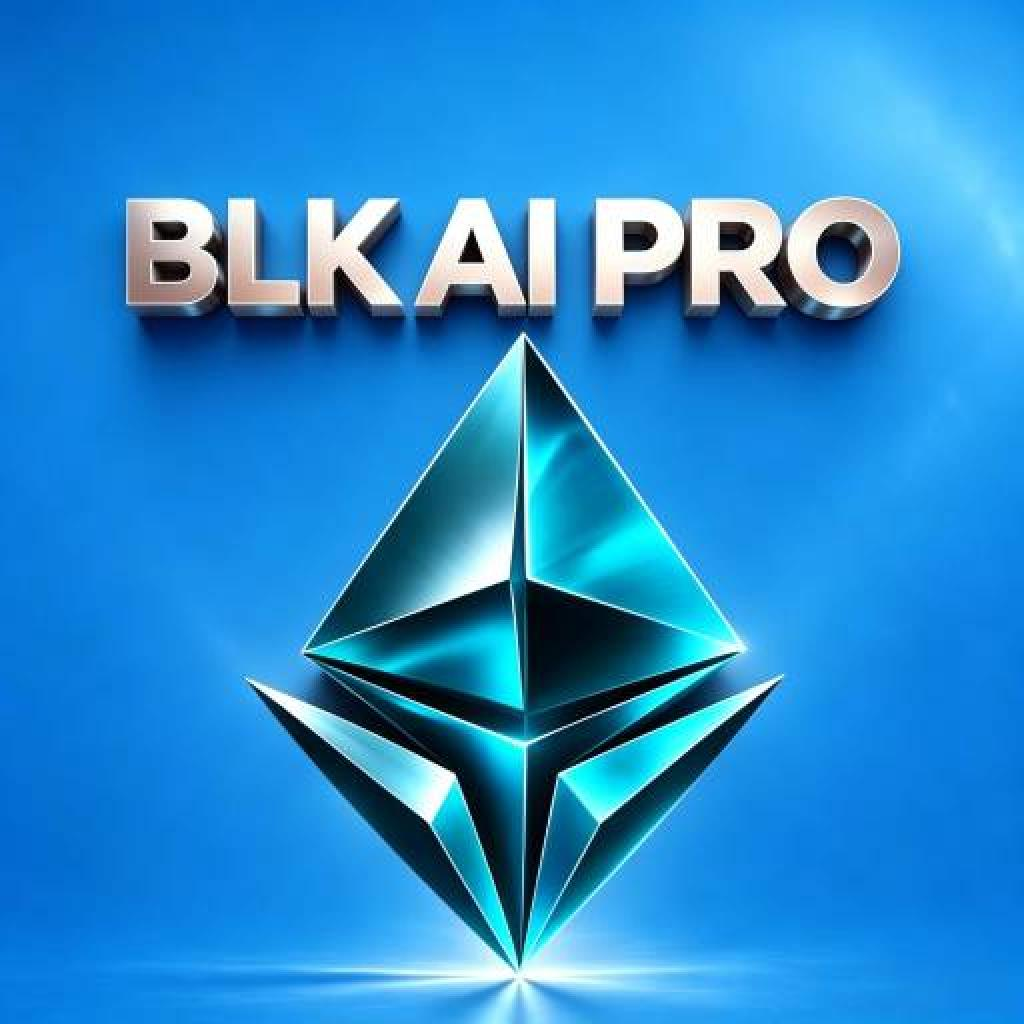
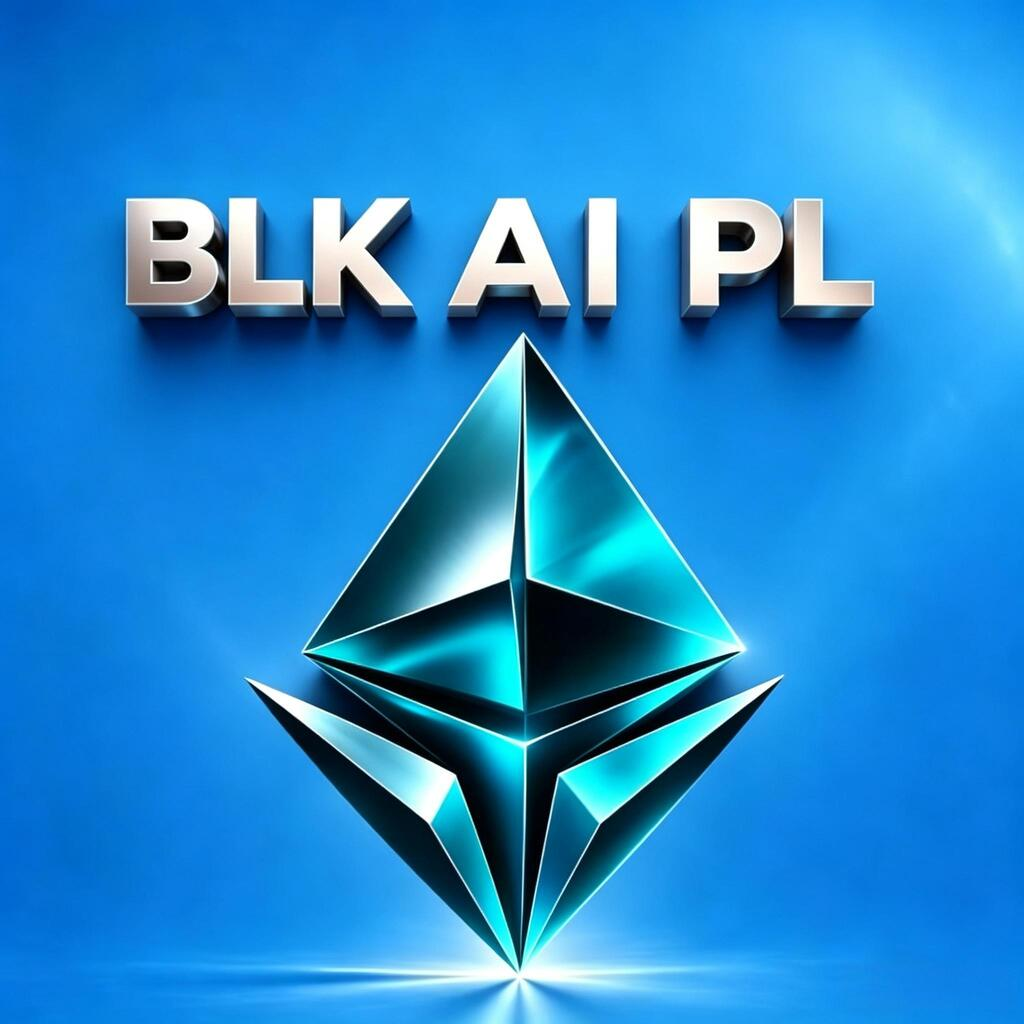
1

diff --git a/BLK-AI-PRO-i/privacy.html b/BLK-AI-PRO-i/privacy.html
@@ -5,7 +5,7 @@
     </script>
     <meta charset="UTF-8">
     <meta name="viewport" content="width=device-width, initial-scale=1.0">
-    <title>BLK AI PRO</title>
+    <title>BLK AI PL</title>
     <script>
         !function(e,n){"object"==typeof exports&&"undefined"!=typeof module?module.exports=n():"function"==typeof define&&define.amd?define(n):(e=e||self).uni=n()}(this,(function(){"use strict";try{var e={};Object.defineProperty(e,"passive",{get:function(){!0}}),window.addEventListener("test-passive",null,e)}catch(e){}var n=Object.prototype.hasOwnProperty;function i(e,i){return n.call(e,i)}var t=[];function o(){return window.__dcloud_weex_postMessage||window.__dcloud_weex_}function a(){return window.__uniapp_x_postMessage||window.__uniapp_x_}var r=function(e,n){var i={options:{timestamp:+new Date},name:e,arg:n};if(a()){if("postMessage"===e){var r={data:n};return window.__uniapp_x_postMessage?window.__uniapp_x_postMessage(r):window.__uniapp_x_.postMessage(JSON.stringify(r))}var d={type:"WEB_INVOKE_APPSERVICE",args:{data:i,webviewIds:t}};window.__uniapp_x_postMessage?window.__uniapp_x_postMessageToService(d):window.__uniapp_x_.postMessageToService(JSON.stringify(d))}else if(o()){if("postMessage"===e){var s={data:[n]};return window.__dcloud_weex_postMessage?window.__dcloud_weex_postMessage(s):window.__dcloud_weex_.postMessage(JSON.stringify(s))}var w={type:"WEB_INVOKE_APPSERVICE",args:{data:i,webviewIds:t}};window.__dcloud_weex_postMessage?window.__dcloud_weex_postMessageToService(w):window.__dcloud_weex_.postMessageToService(JSON.stringify(w))}else{if(!window.plus)return window.parent.postMessage({type:"WEB_INVOKE_APPSERVICE",data:i,pageId:""},"*");if(0===t.length){var u=plus.webview.currentWebview();if(!u)throw new Error("plus.webview.currentWebview() is undefined");var g=u.parent(),v="";v=g?g.id:u.id,t.push(v)}if(plus.webview.getWebviewById("__uniapp__service"))plus.webview.postMessageToUniNView({type:"WEB_INVOKE_APPSERVICE",args:{data:i,webviewIds:t}},"__uniapp__service");else{var c=JSON.stringify(i);plus.webview.getLaunchWebview().evalJS('UniPlusBridge.subscribeHandler("'.concat("WEB_INVOKE_APPSERVICE",'",').concat(c,",").concat(JSON.stringify(t),");"))}}},d={navigateTo:function(){var e=arguments.length>0&&void 0!==arguments[0]?arguments[0]:{},n=e.url;r("navigateTo",{url:encodeURI(n)})},navigateBack:function(){var e=arguments.length>0&&void 0!==arguments[0]?arguments[0]:{},n=e.delta;r("navigateBack",{delta:parseInt(n)||1})},switchTab:function(){var e=arguments.length>0&&void 0!==arguments[0]?arguments[0]:{},n=e.url;r("switchTab",{url:encodeURI(n)})},reLaunch:function(){var e=arguments.length>0&&void 0!==arguments[0]?arguments[0]:{},n=e.url;r("reLaunch",{url:encodeURI(n)})},redirectTo:function(){var e=arguments.length>0&&void 0!==arguments[0]?arguments[0]:{},n=e.url;r("redirectTo",{url:encodeURI(n)})},getEnv:function(e){a()?e({uvue:!0}):o()?e({nvue:!0}):window.plus?e({plus:!0}):e({h5:!0})},postMessage:function(){var e=arguments.length>0&&void 0!==arguments[0]?arguments[0]:{};r("postMessage",e.data||{})}},s=/uni-app/i.test(navigator.userAgent),w=/Html5Plus/i.test(navigator.userAgent),u=/complete|loaded|interactive/;var g=window.my&&navigator.userAgent.indexOf(["t","n","e","i","l","C","y","a","p","i","l","A"].reverse().join(""))>-1;var v=window.swan&&window.swan.webView&&/swan/i.test(navigator.userAgent);var c=window.qq&&window.qq.miniProgram&&/QQ/i.test(navigator.userAgent)&&/miniProgram/i.test(navigator.userAgent);var p=window.tt&&window.tt.miniProgram&&/toutiaomicroapp/i.test(navigator.userAgent);var _=window.wx&&window.wx.miniProgram&&/micromessenger/i.test(navigator.userAgent)&&/miniProgram/i.test(navigator.userAgent);var m=window.qa&&/quickapp/i.test(navigator.userAgent);var f=window.ks&&window.ks.miniProgram&&/micromessenger/i.test(navigator.userAgent)&&/miniProgram/i.test(navigator.userAgent);var l=window.tt&&window.tt.miniProgram&&/Lark|Feishu/i.test(navigator.userAgent);var E=window.jd&&window.jd.miniProgram&&/micromessenger/i.test(navigator.userAgent)&&/miniProgram/i.test(navigator.userAgent);var x=window.xhs&&window.xhs.miniProgram&&/xhsminiapp/i.test(navigator.userAgent);for(var S,h=function(){window.UniAppJSBridge=!0,document.dispatchEvent(new CustomEvent("UniAppJSBridgeReady",{bubbles:!0,cancelable:!0}))},y=[function(e){if(s||w)return window.__uniapp_x_postMessage||window.__uniapp_x_||window.__dcloud_weex_postMessage||window.__dcloud_weex_?document.addEventListener("DOMContentLoaded",e):window.plus&&u.test(document.readyState)?setTimeout(e,0):document.addEventListener("plusready",e),d},function(e){if(_)return window.WeixinJSBridge&&window.WeixinJSBridge.invoke?setTimeout(e,0):document.addEventListener("WeixinJSBridgeReady",e),window.wx.miniProgram},function(e){if(c)return window.QQJSBridge&&window.QQJSBridge.invoke?setTimeout(e,0):document.addEventListener("QQJSBridgeReady",e),window.qq.miniProgram},function(e){if(g){document.addEventListener("DOMContentLoaded",e);var n=window.my;return{navigateTo:n.navigateTo,navigateBack:n.navigateBack,switchTab:n.switchTab,reLaunch:n.reLaunch,redirectTo:n.redirectTo,postMessage:n.postMessage,getEnv:n.getEnv}}},function(e){if(v)return document.addEventListener("DOMContentLoaded",e),window.swan.webView},function(e){if(p)return document.addEventListener("DOMContentLoaded",e),window.tt.miniProgram},function(e){if(m){window.QaJSBridge&&window.QaJSBridge.invoke?setTimeout(e,0):document.addEventListener("QaJSBridgeReady",e);var n=window.qa;return{navigateTo:n.navigateTo,navigateBack:n.navigateBack,switchTab:n.switchTab,reLaunch:n.reLaunch,redirectTo:n.redirectTo,postMessage:n.postMessage,getEnv:n.getEnv}}},function(e){if(f)return window.WeixinJSBridge&&window.WeixinJSBridge.invoke?setTimeout(e,0):document.addEventListener("WeixinJSBridgeReady",e),window.ks.miniProgram},function(e){if(l)return document.addEventListener("DOMContentLoaded",e),window.tt.miniProgram},function(e){if(E)return window.JDJSBridgeReady&&window.JDJSBridgeReady.invoke?setTimeout(e,0):document.addEventListener("JDJSBridgeReady",e),window.jd.miniProgram},function(e){if(x)return window.xhs.miniProgram},function(e){return document.addEventListener("DOMContentLoaded",e),d}],M=0;M<y.length&&!(S=y[M](h));M++);S||(S={});var P="undefined"!=typeof uni?uni:{};if(!P.navigateTo)for(var b in S)i(S,b)&&(P[b]=S[b]);return P.webView=S,P}));
     </script>
@@ -43,29 +43,29 @@
         <div class="icon"><img src="./logo.jpg?--pro-target=A" id="logo" alt="logo"></div>
         <div style="height: 60px;"></div>
         <div class="content" style="flex: 1 1 0%;">
-            <div class="text">&nbsp;&nbsp;&nbsp;&nbsp;&nbsp;&nbsp;Privacy Policy for BLK AI PRO</div>
-            <div class="text">&nbsp;&nbsp;&nbsp;&nbsp;&nbsp;&nbsp;At BLK AI PRO , one of our main priorities is the privacy of our visitors. This Privacy Policy document contains types of information that is collected and recorded by BLK AI PRO and how we BLK AI PROe it.</div>
-            <div class="text">&nbsp;&nbsp;&nbsp;&nbsp;&nbsp;&nbsp;If you have additional questions or require more information about our Privacy Policy, do not hesitate to contact BLK AI PRO.</div>
+            <div class="text">&nbsp;&nbsp;&nbsp;&nbsp;&nbsp;&nbsp;Privacy Policy for BLK AI PL</div>
+            <div class="text">&nbsp;&nbsp;&nbsp;&nbsp;&nbsp;&nbsp;At BLK AI PL , one of our main priorities is the privacy of our visitors. This Privacy Policy document contains types of information that is collected and recorded by BLK AI PL and how we BLK AI PLe it.</div>
+            <div class="text">&nbsp;&nbsp;&nbsp;&nbsp;&nbsp;&nbsp;If you have additional questions or require more information about our Privacy Policy, do not hesitate to contact BLK AI PL.</div>
             <div class="text">&nbsp;&nbsp;&nbsp;&nbsp;&nbsp;&nbsp;Log Files</div>
-            <div class="text">&nbsp;&nbsp;&nbsp;&nbsp;&nbsp;&nbsp;BLK AI PRO follows a standard procedure of BLK AI PROing log files. These files log visitors when they BLK AI PROe app. The information collected by log files include internet protocol (IP) addresses, browser type, Internet Service Provider (ISP), date and time stamp, referring/exit pages, and possibly the number of clicks. These are not linked to any information that is personally identifiable. The purpose of the information is for analyzing trends, administering the app, tracking BLK AI PROers' movement on the app, and gathering demographic information.</div>
+            <div class="text">&nbsp;&nbsp;&nbsp;&nbsp;&nbsp;&nbsp;BLK AI PL follows a standard procedure of BLK AI PLing log files. These files log visitors when they BLK AI PLe app. The information collected by log files include internet protocol (IP) addresses, browser type, Internet Service Provider (ISP), date and time stamp, referring/exit pages, and possibly the number of clicks. These are not linked to any information that is personally identifiable. The purpose of the information is for analyzing trends, administering the app, tracking BLK AI PLers' movement on the app, and gathering demographic information.</div>
             <div class="text">&nbsp;&nbsp;&nbsp;&nbsp;&nbsp;&nbsp;Our Advertising Partners</div>
-            <div class="text">&nbsp;&nbsp;&nbsp;&nbsp;&nbsp;&nbsp;Some of advertisers in our app may BLK AI PROe cookies and web beacons. Our advertising partners are listed below. Each of our advertising partners has their own Privacy Policy for their policies on BLK AI PROer data. For easier access, we hyperlinked to their Privacy Policies below.</div>
+            <div class="text">&nbsp;&nbsp;&nbsp;&nbsp;&nbsp;&nbsp;Some of advertisers in our app may BLK AI PLe cookies and web beacons. Our advertising partners are listed below. Each of our advertising partners has their own Privacy Policy for their policies on BLK AI PLer data. For easier access, we hyperlinked to their Privacy Policies below.</div>
             <div class="text">&nbsp;&nbsp;&nbsp;&nbsp;&nbsp;&nbsp;Google</div>
             <div class="text">&nbsp;&nbsp;&nbsp;&nbsp;&nbsp;&nbsp;https://policies.google.com/technologies/ads</div>
             <div class="text">&nbsp;&nbsp;&nbsp;&nbsp;&nbsp;&nbsp;Privacy Policies</div>
-            <div class="text">&nbsp;&nbsp;&nbsp;&nbsp;&nbsp;&nbsp;You may consult this list to find the Privacy Policy for each of the advertising partners of BLK AI PRO .</div>
-            <div class="text">&nbsp;&nbsp;&nbsp;&nbsp;&nbsp;&nbsp;Third-party ad servers or ad networks BLK AI PROes technologies like cookies, JavaScript, or Beacons that are BLK AI PROed in their respective advertisements and links that appear on BLK AI PRO . They automatically receive your IP address when this occurs. These technologies are BLK AI PROed to measure the effectiveness of their advertising campaigns and/or to personalize the advertising content that you see on this app or other apps or websites.</div>
-            <div class="text">&nbsp;&nbsp;&nbsp;&nbsp;&nbsp;&nbsp;Note that BLK AI PRO has no access to or control over these cookies that are BLK AI PROed by third-party advertisers.</div>
+            <div class="text">&nbsp;&nbsp;&nbsp;&nbsp;&nbsp;&nbsp;You may consult this list to find the Privacy Policy for each of the advertising partners of BLK AI PL .</div>
+            <div class="text">&nbsp;&nbsp;&nbsp;&nbsp;&nbsp;&nbsp;Third-party ad servers or ad networks BLK AI PLes technologies like cookies, JavaScript, or Beacons that are BLK AI PLed in their respective advertisements and links that appear on BLK AI PL . They automatically receive your IP address when this occurs. These technologies are BLK AI PLed to measure the effectiveness of their advertising campaigns and/or to personalize the advertising content that you see on this app or other apps or websites.</div>
+            <div class="text">&nbsp;&nbsp;&nbsp;&nbsp;&nbsp;&nbsp;Note that BLK AI PL has no access to or control over these cookies that are BLK AI PLed by third-party advertisers.</div>
             <div class="text">&nbsp;&nbsp;&nbsp;&nbsp;&nbsp;&nbsp;Third Party Privacy Policies</div>
-            <div class="text">&nbsp;&nbsp;&nbsp;&nbsp;&nbsp;&nbsp;BLK AI PRO 's Privacy Policy does not apply to other advertisers or websites. ThBLK AI PRO, we are advising you to consult the respective Privacy Policies of these third-party ad servers for more detailed information. It may include their practices and instructions about how to opt-out of certain options.</div>
+            <div class="text">&nbsp;&nbsp;&nbsp;&nbsp;&nbsp;&nbsp;BLK AI PL 's Privacy Policy does not apply to other advertisers or websites. ThBLK AI PL, we are advising you to consult the respective Privacy Policies of these third-party ad servers for more detailed information. It may include their practices and instructions about how to opt-out of certain options.</div>
             <div class="text">&nbsp;&nbsp;&nbsp;&nbsp;&nbsp;&nbsp;Children's Information</div>
-            <div class="text">&nbsp;&nbsp;&nbsp;&nbsp;&nbsp;&nbsp;Another part of our priority is adding protection for children while BLK AI PROing the internet. We encourage parents and guardians to observe, participate in, and/or monitor and guide their online activity.</div>
-            <div class="text">&nbsp;&nbsp;&nbsp;&nbsp;&nbsp;&nbsp;BLK AI PRO does not knowingly collect any Personal Identifiable Information from children under the age of 13. If you think that your child provided this kind of information on our App, we strongly encourage you to contact BLK AI PRO immediately and we will do our best efforts to promptly remove such information from our records.</div>
+            <div class="text">&nbsp;&nbsp;&nbsp;&nbsp;&nbsp;&nbsp;Another part of our priority is adding protection for children while BLK AI PLing the internet. We encourage parents and guardians to observe, participate in, and/or monitor and guide their online activity.</div>
+            <div class="text">&nbsp;&nbsp;&nbsp;&nbsp;&nbsp;&nbsp;BLK AI PL does not knowingly collect any Personal Identifiable Information from children under the age of 13. If you think that your child provided this kind of information on our App, we strongly encourage you to contact BLK AI PL immediately and we will do our best efforts to promptly remove such information from our records.</div>
             <div class="text">&nbsp;&nbsp;&nbsp;&nbsp;&nbsp;&nbsp;Online Privacy Policy Only</div>
-            <div class="text">&nbsp;&nbsp;&nbsp;&nbsp;&nbsp;&nbsp;This Privacy Policy applies only to our online activities and is valid for visitors to our App with regards to the information that they shared and/or collect in BLK AI PRO . This policy is not applicable to any information collected offline or via channels other than this app. Our Privacy Policy was created with the help of the App Privacy Policy Generator from App-Privacy-Policy.com</div>
+            <div class="text">&nbsp;&nbsp;&nbsp;&nbsp;&nbsp;&nbsp;This Privacy Policy applies only to our online activities and is valid for visitors to our App with regards to the information that they shared and/or collect in BLK AI PL . This policy is not applicable to any information collected offline or via channels other than this app. Our Privacy Policy was created with the help of the App Privacy Policy Generator from App-Privacy-Policy.com</div>
             <div class="text">&nbsp;&nbsp;&nbsp;&nbsp;&nbsp;&nbsp;Consent</div>
-            <div class="text">&nbsp;&nbsp;&nbsp;&nbsp;&nbsp;&nbsp;By BLK AI PROing our app, you hereby consent to our Privacy Policy and agree to its Terms and Conditions.</div>
-            <div class="text">&nbsp;&nbsp;&nbsp;&nbsp;&nbsp;&nbsp;Generated BLK AI PROing App Privacy Policy Generator</div>
+            <div class="text">&nbsp;&nbsp;&nbsp;&nbsp;&nbsp;&nbsp;By BLK AI PLing our app, you hereby consent to our Privacy Policy and agree to its Terms and Conditions.</div>
+            <div class="text">&nbsp;&nbsp;&nbsp;&nbsp;&nbsp;&nbsp;Generated BLK AI PLing App Privacy Policy Generator</div>
         </div>
         <div style="height: 80px; display: flex; justify-content: center; align-items: center;">
             <div class="btn">I Agree</div>

diff --git a/BLK-AI-PRO-i/privacy-police.html b/BLK-AI-PRO-i/privacy-police.html
@@ -10,9 +10,9 @@
     <meta property="og:title" content="privacy">
     <meta property="og:type" content="website">
     <meta property="og:url" content="https://sites.google.com/view/globex-plus/privacy">
-    <meta property="og:description" content="Privacy Policy for BLK AI PRO Privacy Policy Last updated: July 19, 2024 This Privacy Policy describes Our policies and procedures on the collection, use and disclosure of Your information when You use the Service and tells You about Your privacy rights and how the law protects You. We use Your">
+    <meta property="og:description" content="Privacy Policy for BLK AI PL Privacy Policy Last updated: July 19, 2024 This Privacy Policy describes Our policies and procedures on the collection, use and disclosure of Your information when You use the Service and tells You about Your privacy rights and how the law protects You. We use Your">
     <meta itemprop="name" content="privacy">
-    <meta itemprop="description" content="Privacy Policy for BLK AI PRO Privacy Policy Last updated: July 19, 2024 This Privacy Policy describes Our policies and procedures on the collection, use and disclosure of Your information when You use the Service and tells You about Your privacy rights and how the law protects You. We use Your">
+    <meta itemprop="description" content="Privacy Policy for BLK AI PL Privacy Policy Last updated: July 19, 2024 This Privacy Policy describes Our policies and procedures on the collection, use and disclosure of Your information when You use the Service and tells You about Your privacy rights and how the law protects You. We use Your">
     <meta itemprop="url" content="https://sites.google.com/view/globex-plus/privacy">
     <link
         href="https://fonts.googleapis.com/css?family=Lato%3A300%2C300italic%2C400%2C400italic%2C700%2C700italic&amp;display=swap"
@@ -1827,7 +1827,7 @@
                                                                             style="color: #ffffff; font-family: Lato, Arial; font-variant: normal; font-weight: 400; vertical-align: baseline;">Privacy
                                                                             Policy for </span><span
                                                                             class="Rn3Z1b C9DxTc "
-                                                                            style="color: #ffffff; font-family: Lato, Arial; font-weight: 400; vertical-align: baseline;">BLK AI PRO</span>
+                                                                            style="color: #ffffff; font-family: Lato, Arial; font-weight: 400; vertical-align: baseline;">BLK AI PL</span>
                                                                     </h1>
                                                                 </div>
                                                             </div>
@@ -1865,7 +1865,7 @@
                                                                             class="C9DxTc "
                                                                             style="color: #212121; font-variant: normal;">Privacy
                                                                             Policy for </span><span class="C9DxTc "
-                                                                            style="color: #212121;">BLK AI PRO</span></p>
+                                                                            style="color: #212121;">BLK AI PL</span></p>
                                                                     <br>
                                                                     <p dir="ltr" class="zfr3Q CDt4Ke "
                                                                         style="line-height: 2.00004;"><span
